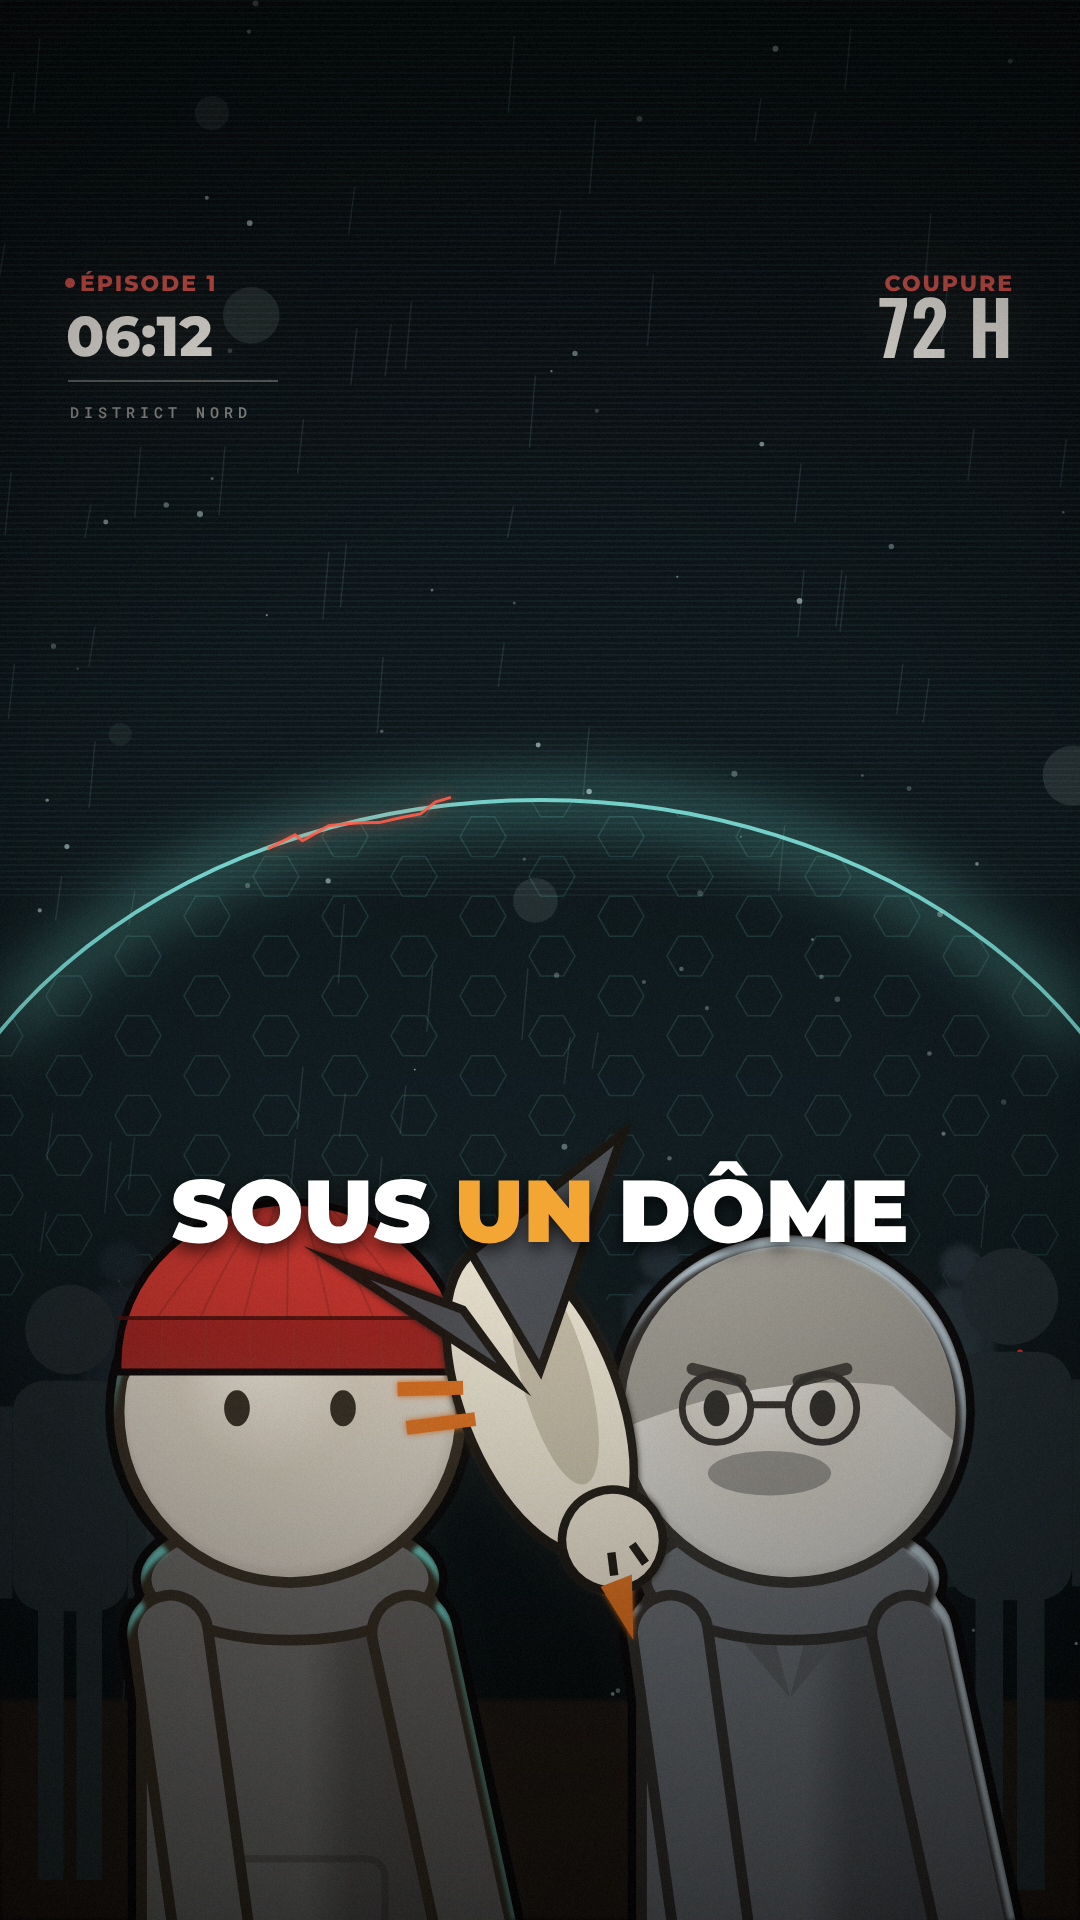
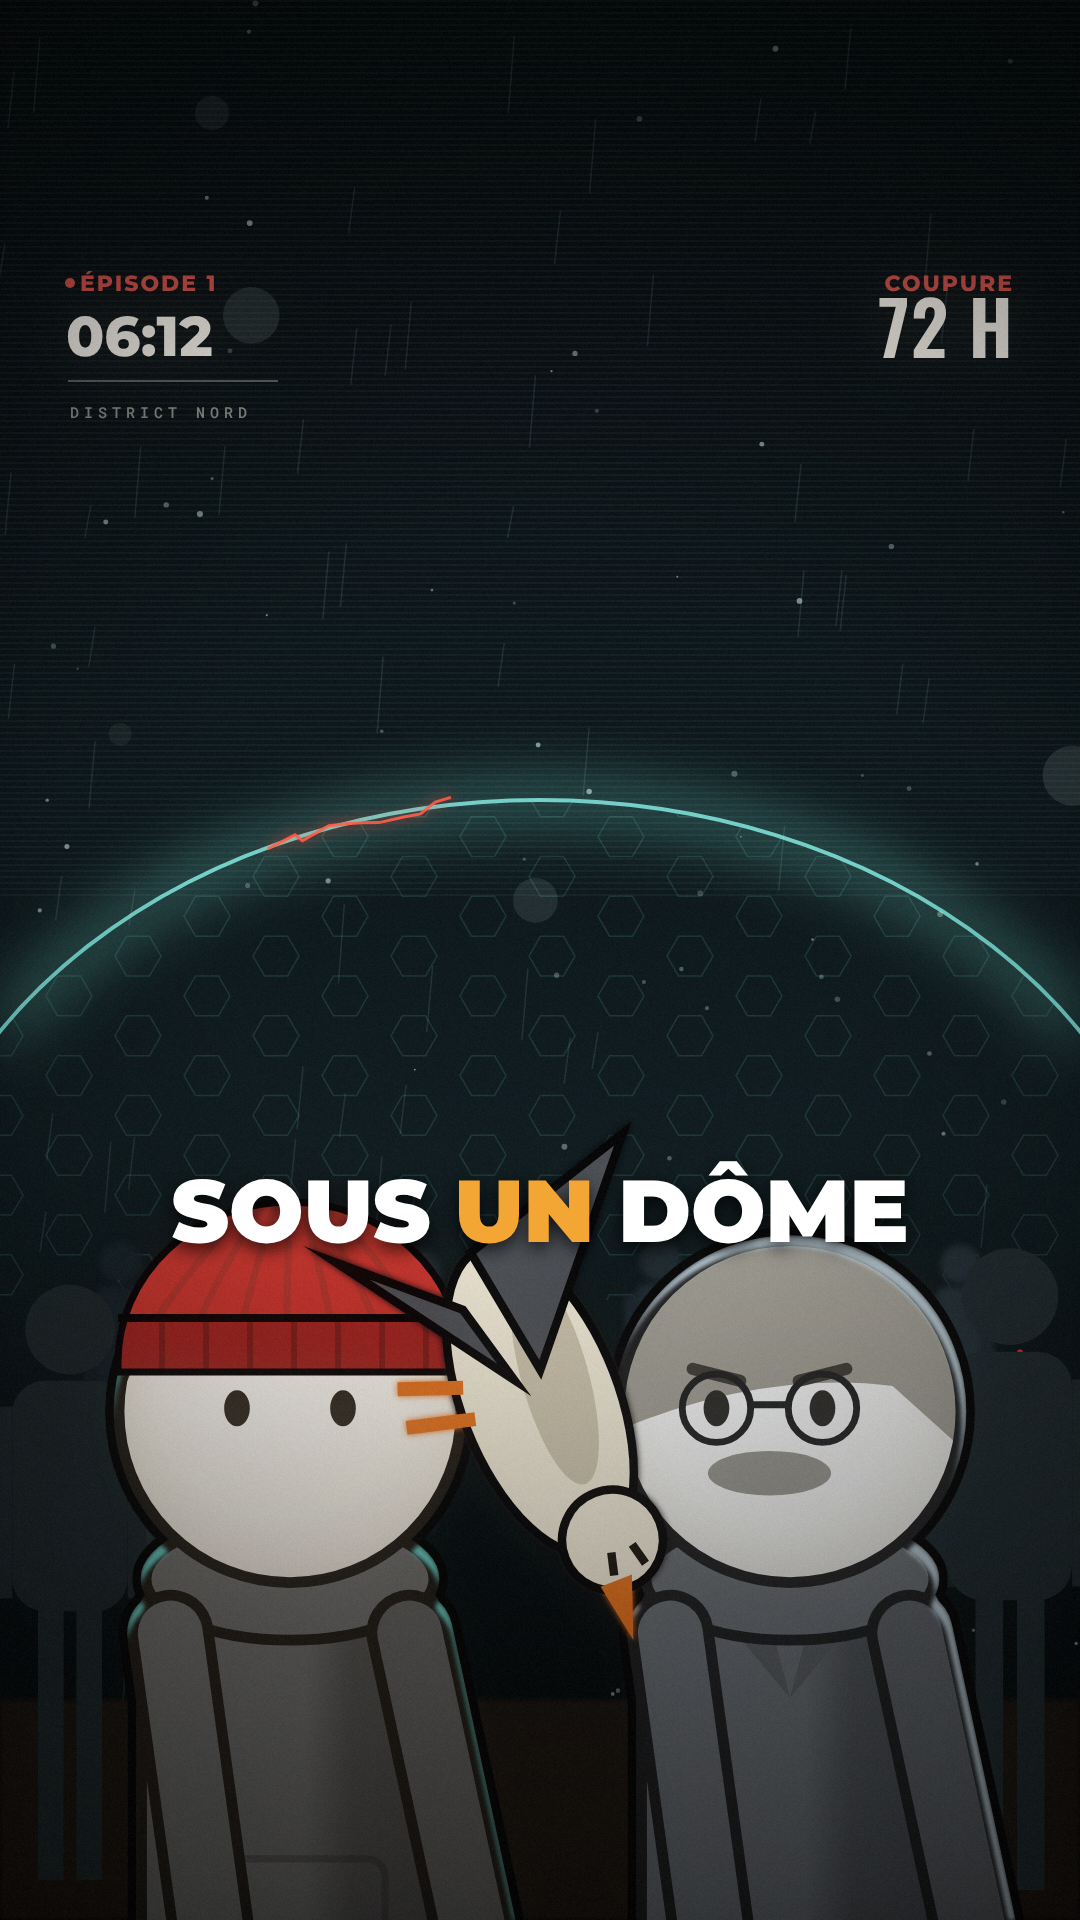
couronne-ep01 : personnages — contour noir unique (plus de double trait gris), visage blanc, côtes du bonnet épaisses, pli du revers en noir
Claude-Session: https://claude.ai/code/session_0151hKPePi5KPXjL7mUCuxno

Changed region(s): [[0.1222, 0.6562, 0.4278, 0.8125], [0.5806, 0.7188, 0.8556, 0.8125]]

diff --git a/productions/couronne-ep01/rendu_v3/scenes.js b/productions/couronne-ep01/rendu_v3/scenes.js
@@ -775,14 +775,14 @@ S.p02h_buste_vivant = g => {                              // image 2 v13
   // bonnet rouge replié : calotte à côtes qui convergent vers le haut, revers replié en bas (côtes plus foncées)
   const dome = () => { g.beginPath(); g.ellipse(290, 1362, 172, 160, 0, Math.PI, 2 * Math.PI); g.lineTo(462, 1372); g.lineTo(118, 1372); g.closePath(); };
   g.save(); dome(); g.fillStyle = "#c4342d"; g.fill(); g.clip();
-  g.strokeStyle = "rgba(160,46,40,0.85)"; g.lineWidth = 2; g.lineCap = "round";
+  g.strokeStyle = "rgba(170,52,44,0.9)"; g.lineWidth = 7; g.lineCap = "round";
   for (let k = 0; k <= 6; k++) { const x0 = 118 + k * 56; g.beginPath(); g.moveTo(x0, 1380); g.quadraticCurveTo(x0 + (290 - x0) * 0.4, 1260, 290 + (x0 - 290) * 0.08, 1180); g.stroke(); }   // côtes qui rejoignent le sommet
   g.fillStyle = "#9c2420"; g.fillRect(100, 1318, 380, 60);                                               // revers replié
-  g.strokeStyle = "rgba(150,44,38,0.85)"; g.lineWidth = 1.8;
+  g.strokeStyle = "rgba(120,30,26,0.95)"; g.lineWidth = 6;
   for (let k = 0; k <= 8; k++) { const x0 = 118 + k * 44; g.beginPath(); g.moveTo(x0, 1318); g.lineTo(x0, 1378); g.stroke(); }   // côtes du revers
   g.restore();
   g.strokeStyle = "#050405"; g.lineWidth = 7; dome(); g.stroke();
-  g.strokeStyle = "rgba(70,14,12,0.9)"; g.lineWidth = 4; g.beginPath(); g.moveTo(118, 1318); g.lineTo(462, 1318); g.stroke();   // pli du revers
+  g.strokeStyle = "#050405"; g.lineWidth = 8; g.beginPath(); g.moveTo(118, 1318); g.lineTo(462, 1318); g.stroke();   // pli du revers
   pigeon(g, 540, 1400, 2.8, 1.2, 3);
   pigeon(g, 540, 1400, 2.8, 1.2, 0);
   hud(g); finish(g, { bloom: 0.08, grade: ["#000000", "#ffd9a0", 0.03] }); caption(g, ["SOUS", "UN", "DÔME"], 1);
@@ -799,14 +799,14 @@ S.p02i_sol_vivant = g => {                                // image 3 v13
   // bonnet rouge replié : calotte à côtes qui convergent vers le haut, revers replié en bas (côtes plus foncées)
   const dome = () => { g.beginPath(); g.ellipse(290, 1362, 172, 160, 0, Math.PI, 2 * Math.PI); g.lineTo(462, 1372); g.lineTo(118, 1372); g.closePath(); };
   g.save(); dome(); g.fillStyle = "#c4342d"; g.fill(); g.clip();
-  g.strokeStyle = "rgba(160,46,40,0.85)"; g.lineWidth = 2; g.lineCap = "round";
+  g.strokeStyle = "rgba(170,52,44,0.9)"; g.lineWidth = 7; g.lineCap = "round";
   for (let k = 0; k <= 6; k++) { const x0 = 118 + k * 56; g.beginPath(); g.moveTo(x0, 1380); g.quadraticCurveTo(x0 + (290 - x0) * 0.4, 1260, 290 + (x0 - 290) * 0.08, 1180); g.stroke(); }   // côtes qui rejoignent le sommet
   g.fillStyle = "#9c2420"; g.fillRect(100, 1318, 380, 60);                                               // revers replié
-  g.strokeStyle = "rgba(150,44,38,0.85)"; g.lineWidth = 1.8;
+  g.strokeStyle = "rgba(120,30,26,0.95)"; g.lineWidth = 6;
   for (let k = 0; k <= 8; k++) { const x0 = 118 + k * 44; g.beginPath(); g.moveTo(x0, 1318); g.lineTo(x0, 1378); g.stroke(); }   // côtes du revers
   g.restore();
   g.strokeStyle = "#050405"; g.lineWidth = 7; dome(); g.stroke();
-  g.strokeStyle = "rgba(70,14,12,0.9)"; g.lineWidth = 4; g.beginPath(); g.moveTo(118, 1318); g.lineTo(462, 1318); g.stroke();   // pli du revers
+  g.strokeStyle = "#050405"; g.lineWidth = 8; g.beginPath(); g.moveTo(118, 1318); g.lineTo(462, 1318); g.stroke();   // pli du revers
   pigeon(g, 560, 1860, 2.0, 1.45, 0);
   hud(g); finish(g, { bloom: 0.08, grade: ["#000000", "#ffd9a0", 0.03] }); caption(g, ["MAGNÉTIQUE."], 0);
 };

diff --git a/productions/couronne-ep01/rendu_v3/draw_base.js b/productions/couronne-ep01/rendu_v3/draw_base.js
@@ -1,7 +1,7 @@
 // Moteur de dessin calqué sur les références (planches contact VIDEO_01) — mesures dans STYLE_BIBLE.md + relevés pixels.
 // Unités : canvas 1080x1920. Facteur planche -> rendu : 1080/464 = 2.328.
 const W = 1080, H = 1920;
-const INK = "#17130e";                                  // contour (relevé : bord de tête ~#151109)
+const INK = "#050405";                                  // contour (relevé : bord de tête ~#151109)
 const HUD_RED = "#D6514B", HUD_WHITE = "#F6F2EA", CAP_ORANGE = "#F3A633";
 const mk = (w, h) => { const c = document.createElement("canvas"); c.width = w; c.height = h; return c; };
 const hex2 = (c) => { const n = parseInt(c.slice(1), 16); return [(n >> 16) & 255, (n >> 8) & 255, n & 255]; };
@@ -98,7 +98,7 @@ function tube(g, a, b, w, col, s) {
 function ball(g, c, r, col, s) { g.fillStyle = col; g.beginPath(); g.arc(c[0], c[1], r, 0, 7); g.fill(); outline(g, s); g.lineWidth = 5 * s; g.stroke(); }
 function headShape(g, c, R, s, o) {                     // tête ronde claire, reflet radial haut-gauche, bord gris (#9d9a94)
   const gr = g.createRadialGradient(c[0] - R * 0.25, c[1] - R * 0.35, R * 0.05, c[0], c[1], R);
-  gr.addColorStop(0, "#f6f3ec"); gr.addColorStop(0.5, o.skin || "#ddd7cb"); gr.addColorStop(0.92, "#dedad2"); gr.addColorStop(1, "#c4bfb6");
+  gr.addColorStop(0, "#ffffff"); gr.addColorStop(0.7, "#fbfaf7"); gr.addColorStop(1, "#f1eee8");
   g.fillStyle = gr; g.beginPath(); g.arc(c[0], c[1], R, 0, 7); g.fill();
 }
 function eyes(g, c, R, o) {                              // yeux : ovales noirs verticaux, écart 0.62 R, légèrement au-dessus du centre
